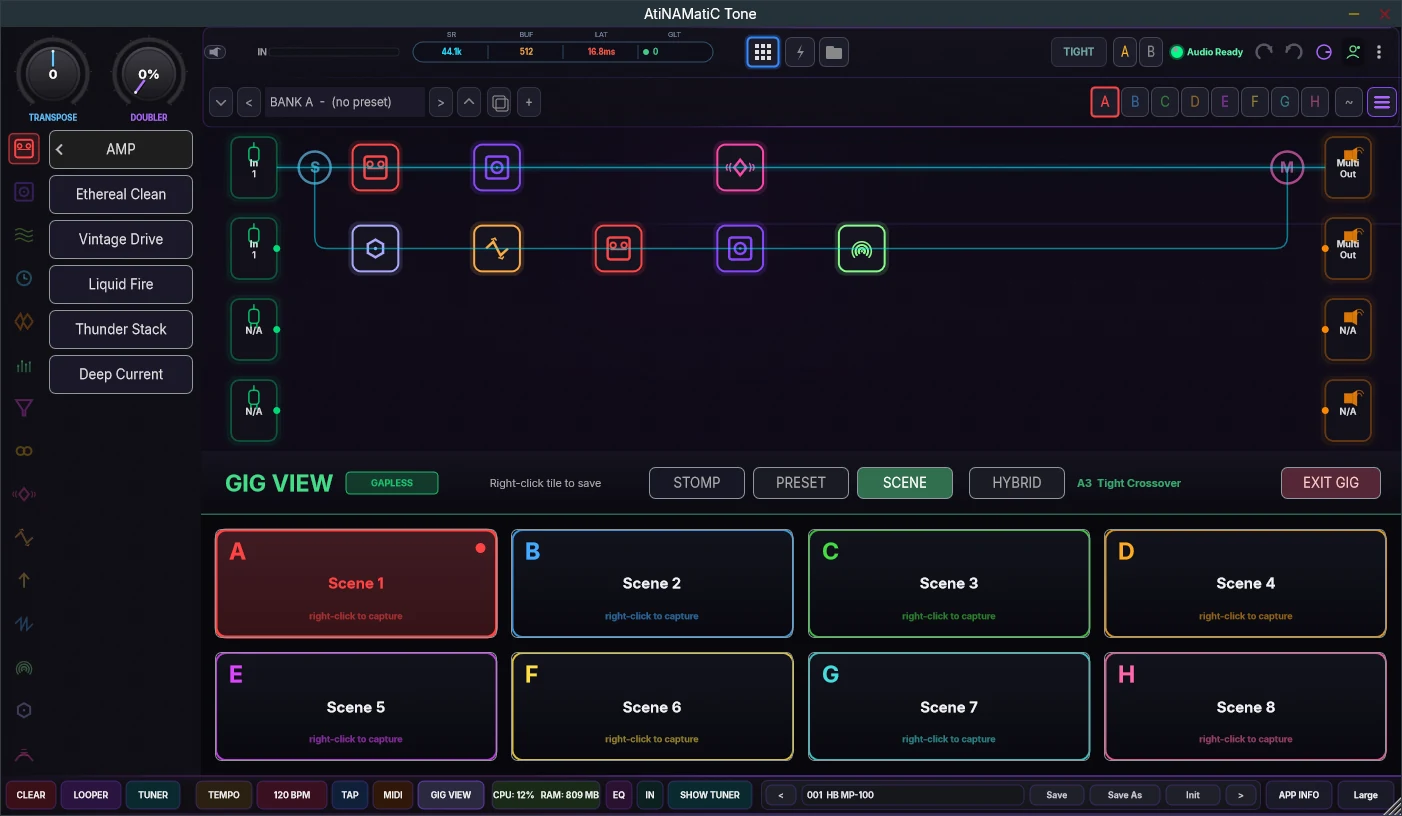
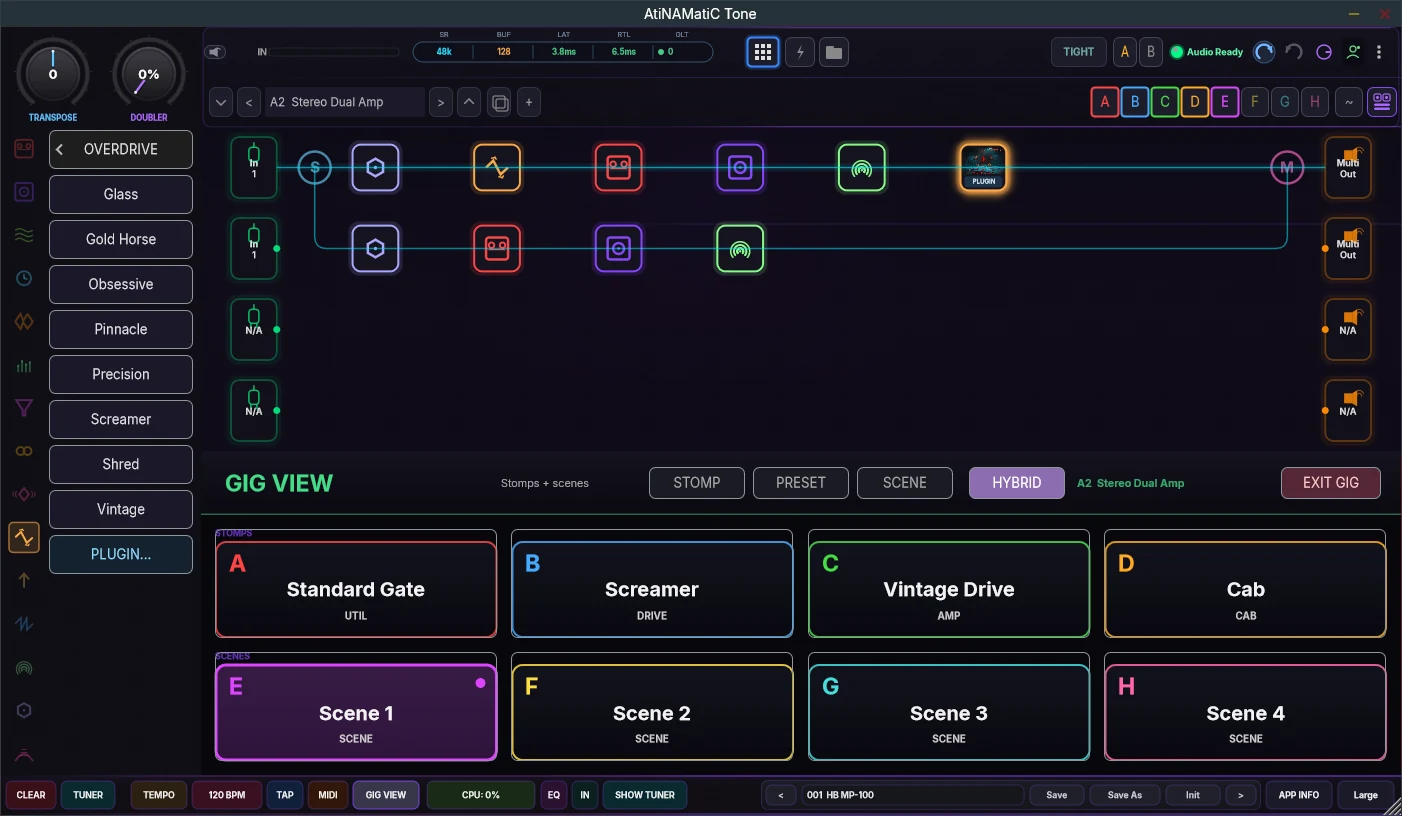
AtiNAMatiC Tone: new screenshots (plugin blocks, Plugins screen, rig capture, HYBRID gig view)

diff --git a/src/lib/productDetails.js b/src/lib/productDetails.js
@@ -169,14 +169,17 @@ export const productDetails = {
       },
     ],
     gallery: [
-      shot("atinamatic-tone", "main", 1402, 816, "Split signal path on the effect grid, with the Thunder Stack amp open"),
+      shot("atinamatic-tone", "main", 1402, 816, "Split signal path on the effect grid, with a plugin block (SoulCrusher) on row 1 and the Vintage Drive amp open"),
+      shot("atinamatic-tone", "plugin-block", 1402, 816, "Your own plugin as a block: SoulCrusher in an OVERDRIVE slot, with its picture, ON/OFF, OPEN PLUGIN WINDOW and CHANGE PLUGIN"),
+      shot("atinamatic-tone", "plugins-screen", 1402, 816, "Plugins screen: scan, search and sort your plugins, then use them as blocks"),
+      shot("atinamatic-tone", "rig-capture", 1402, 816, "Rig capture: turn the whole rig you built, plugin blocks included, into a NAM model"),
       shot("atinamatic-tone", "ethereal-clean-amp", 1402, 816, "Ethereal Clean amp with its tone controls"),
       shot("atinamatic-tone", "screamer-distortion", 1402, 816, "Screamer Distortion pedal"),
       shot("atinamatic-tone", "room-reverb", 1402, 816, "Room Reverb with size, decay, pre-delay and EQ"),
       shot("atinamatic-tone", "nam-loader", 1402, 816, "NAM loader with calibration, gate and the Parametric NAM trainer (Windows standalone app)"),
       shot("atinamatic-tone", "advanced-looper", 1402, 816, "Advanced looper: four tracks, overdub, speed and stem split"),
       shot("atinamatic-tone", "advanced-tuner", 1402, 816, "Advanced tuner with strobe, stream and harmonic modes"),
-      shot("atinamatic-tone", "gig-view", 1402, 816, "Gig view: eight scenes on big footswitch tiles"),
+      shot("atinamatic-tone", "gig-view", 1402, 816, "Gig view in HYBRID mode: footswitches A-D toggle blocks, E-H recall scenes"),
     ],
     install: {
       platforms: [

diff --git a/src/lib/site.js b/src/lib/site.js
@@ -152,7 +152,7 @@ export const products = [
     releaseRepo: "atij666studio/AtiNAMatiC-Tone-Downloads",
     image: {
       src: "/screenshots/atinamatic-tone/main.webp",
-      alt: "AtiNAMatiC Tone with a split signal path on the effect grid and the Thunder Stack amp open",
+      alt: "AtiNAMatiC Tone with a split signal path on the effect grid, a plugin block on row 1 and the Vintage Drive amp open",
       width: 1402,
       height: 816,
     },
